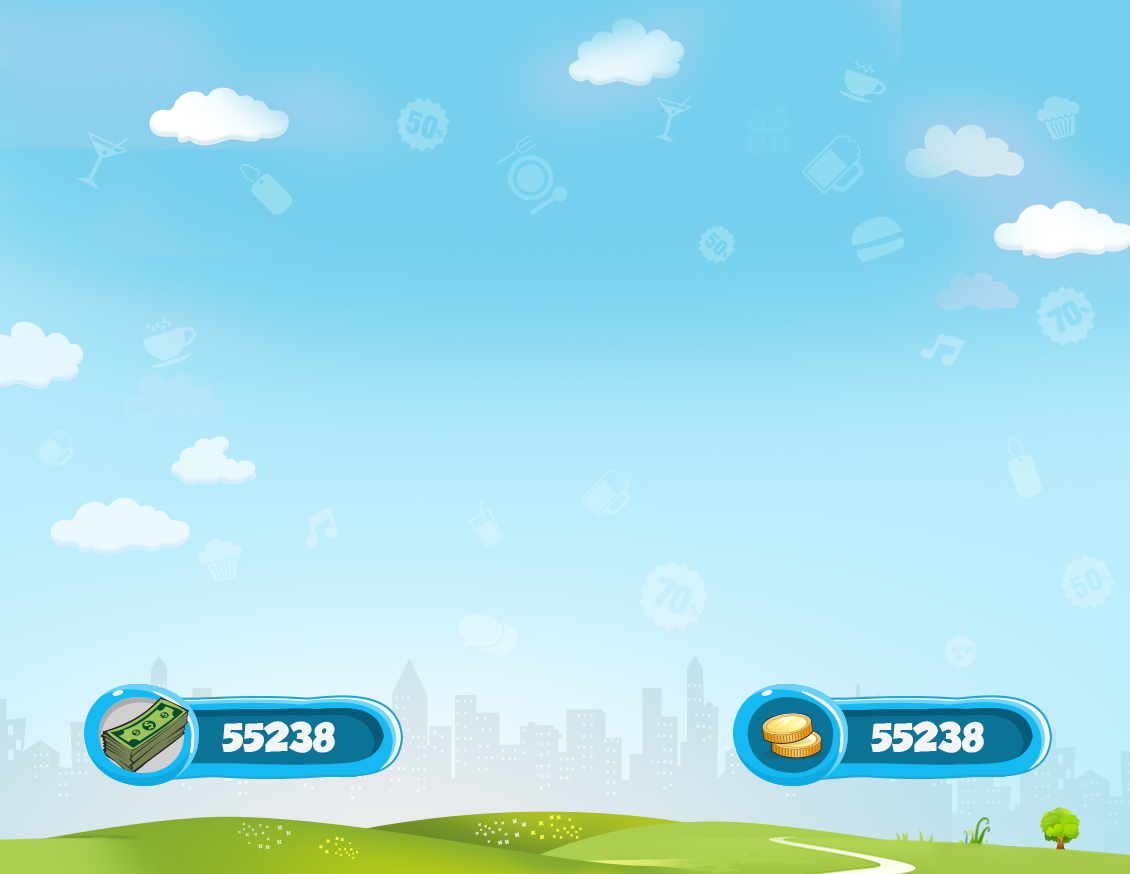
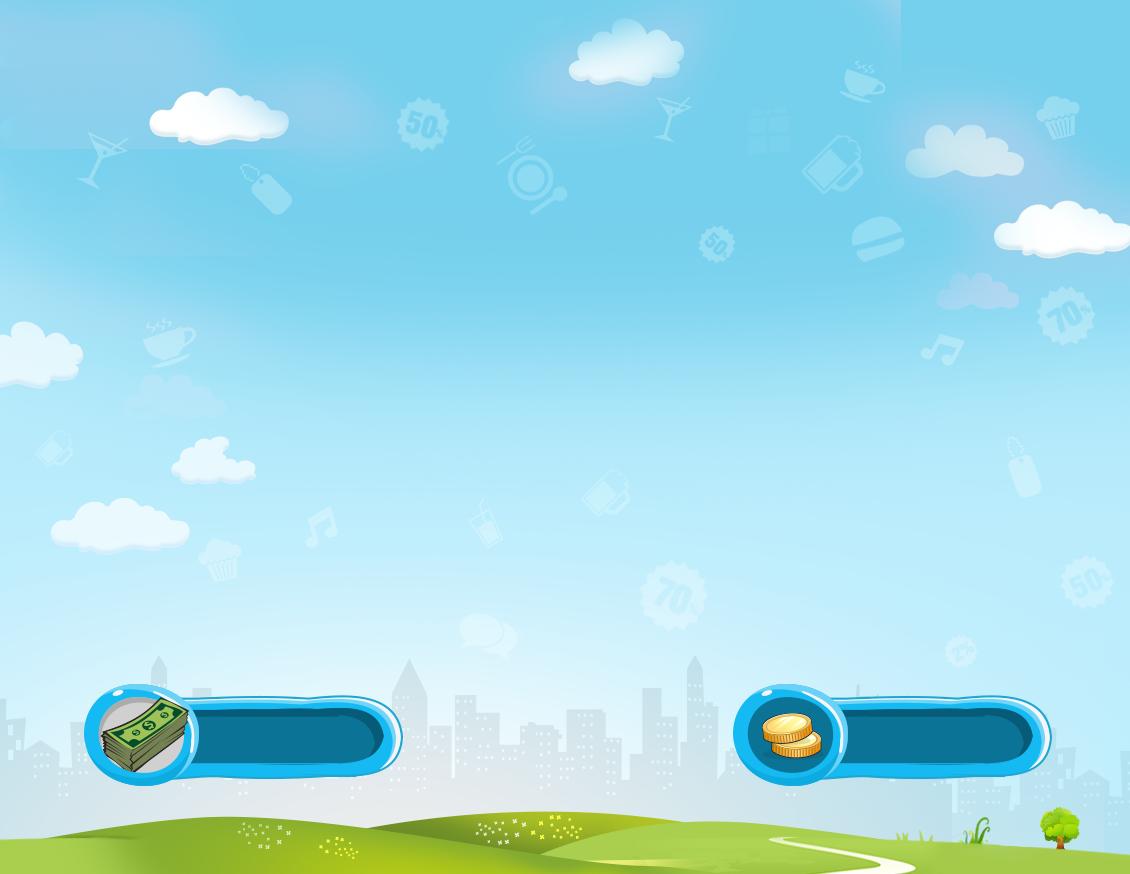
configuring the coin and dollar labels

Changed region(s): [[0.1858, 0.8032, 0.3097, 0.865], [0.7743, 0.8032, 0.8673, 0.865]]

diff --git a/ThinkGamingStoreUI/ThinkGamingStoreUIStyle/ThinkGamingStoreUIStyleAppearance.m b/ThinkGamingStoreUI/ThinkGamingStoreUIStyle/ThinkGamingStoreUIStyleAppearance.m
@@ -41,7 +41,13 @@
              /* UIImage
                 Background image for store.
               */
-             tgStoreStyleBackgroundImage : [UIImage imageNamed:@"background"]
+             tgStoreStyleBackgroundImage : [UIImage imageNamed:@"background"],
+             
+             /* UIColor
+              Font color for currency.
+              */
+             tgStoreStyleCurrencyLabelFontColor : [UIColor whiteColor]
+
              };
 }
 
@@ -76,6 +82,11 @@
         UIBarButtonItem *barButton = [[UIBarButtonItem alloc] initWithCustomView:button];
         store.navigationItem.rightBarButtonItem = barButton;
     }
+    
+    [@[store.coinsLabel, store.dollarsLabel] enumerateObjectsUsingBlock:^(UILabel *label, NSUInteger idx, BOOL *stop) {
+        label.font = [UIFont fontWithName:styles[tgStoreStyleFontName] size:14.0];
+        label.textColor = styles[tgStoreStyleCurrencyLabelFontColor];
+    }];
 }
 
 + (UIColor *)colorWithHexString:(NSString *)stringToConvert {

diff --git a/ThinkGamingStoreUI/ThinkGamingStoreUIStyle/ThinkGamingStoreUIStyleAppearance.h b/ThinkGamingStoreUI/ThinkGamingStoreUIStyle/ThinkGamingStoreUIStyleAppearance.h
@@ -20,6 +20,7 @@
 #define tgStoreStyleNavigationBarCloseImage @"tgStoreStyleNavigationBarCloseImage"
 #define tgStoreStyleFontName @"tgStoreStyleFontName"
 #define tgStoreStyleBackgroundImage @"tgStoreStyleBackgroundImage"
+#define tgStoreStyleCurrencyLabelFontColor @"tgStoreStyleCurrencyLabelFontColor"
 #define tgStoreStyle @""
 
 @end

diff --git a/ThinkGamingStoreUI/ThinkGamingStoreUI/ThinkGamingStoreUIViewController.h b/ThinkGamingStoreUI/ThinkGamingStoreUI/ThinkGamingStoreUIViewController.h
@@ -10,7 +10,10 @@
 
 @interface ThinkGamingStoreUIViewController : UIViewController
 @property (weak) IBOutlet UIImageView *backgroundImage;
+
 @property (weak) IBOutlet UIBarButtonItem *closeButton;
+@property (weak) IBOutlet UILabel *coinsLabel;
+@property (weak) IBOutlet UILabel *dollarsLabel;
 
 - (void) rotateStore;
 
